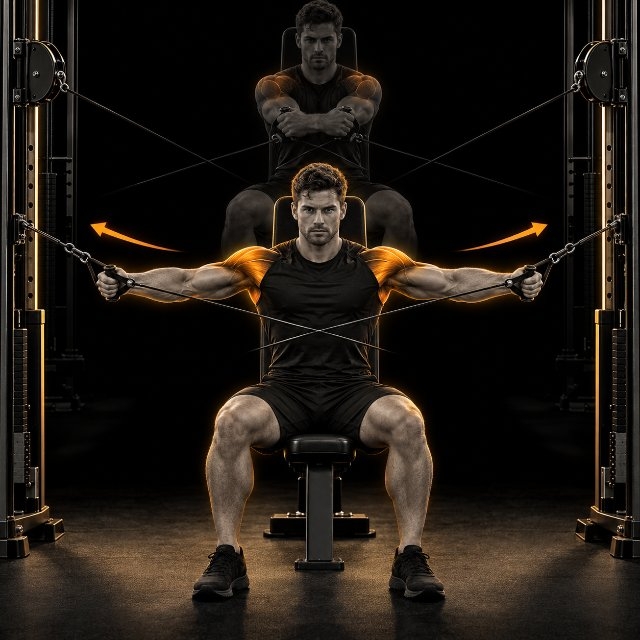
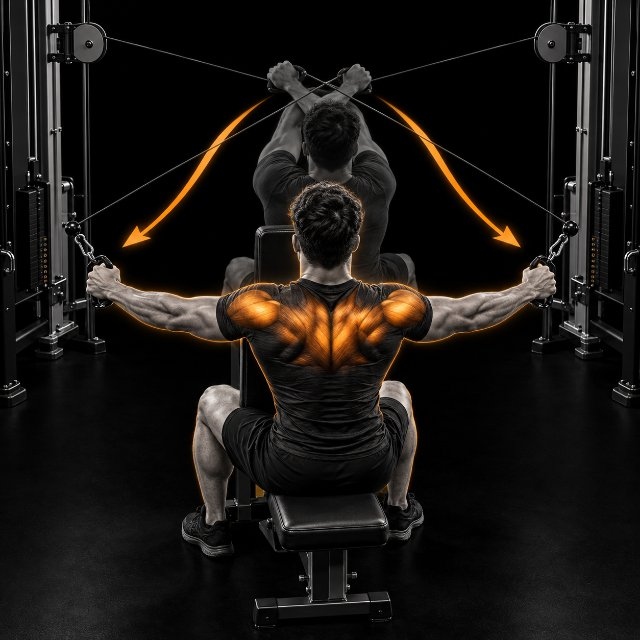
Reverse Butterfly: Brust an Lehne, Blick zum Turm, überkreuzt nach aussen-unten (Bild + Text) (31.10. 12:50)
Claude-Session: https://claude.ai/code/session_01Shd4vmsa3BFJUpncrqw4yj

diff --git a/index.html b/index.html
@@ -761,7 +761,7 @@ function ringBell(at){const c=audioCtx,T=c.currentTime+at,out=c.createDynamicsCo
  [[1,1],[2.76,.55],[5.4,.32],[8.93,.18],[13.3,.08]].forEach(([r,a])=>{const o=c.createOscillator(),g=c.createGain();o.type='sine';o.frequency.value=880*r;g.gain.setValueAtTime(.0001,T);g.gain.exponentialRampToValueAtTime(1.1*a,T+.003);g.gain.exponentialRampToValueAtTime(.0001,T+.75/Math.sqrt(r));o.connect(g);g.connect(out);o.start(T);o.stop(T+.8)})}
 function boxBell(at){[0,.17,.34].forEach(d=>ringBell(at+d))}
 function beep(){if(document.hidden)return;try{if(rawEl&&!customBuf){playRaw();return}if(!audioCtx)return;if(audioCtx.state!=='running'){const t0=Date.now();audioCtx.resume().then(()=>{if(audioCtx.state==='running'&&Date.now()-t0<1500&&!document.hidden)beepNow()}).catch(()=>{});return}beepNow()}catch(e){}}
-const APPV='31.10. 11:55'
+const APPV='31.10. 12:50'
 let _updChk=0;async function checkUpdate(){if(location.hostname!=='donpntlc.github.io'||Date.now()-_updChk<60000)return;_updChk=Date.now();try{const t=await (await fetch(location.pathname+'?u='+Date.now(),{cache:'no-store'})).text();const m=t.match(/const APPV='([^']+)'/);if(!m||m[1]===APPV)return;
  if(!S.active){toast('Neue Version wird geladen …');setTimeout(()=>location.replace(location.pathname+'?v='+Date.now()),900)}else toast('Neue Version da. Nach dem Training App neu öffnen.')}catch(e){}}
 document.addEventListener('visibilitychange',()=>{if(!document.hidden)checkUpdate()});setTimeout(checkUpdate,4000);
@@ -913,7 +913,7 @@ function noteHist(name){const out=[];let lastNote=null;const ss=sessions(name).s
 function slug(n){return String(n).toLowerCase().replace(/ä/g,'ae').replace(/ö/g,'oe').replace(/ü/g,'ue').replace(/ß/g,'ss').replace(/[^a-z0-9]+/g,'-').replace(/^-|-$/g,'')}
 function gender(){try{return localStorage.getItem('hantelbuch.gender')||'m'}catch(e){return 'm'}}
 const IMG_ALIAS={"Push Up": "Liegestütze", "Pull Up": "Klimmzüge", "Pull Up (Warm Up)": "Klimmzüge", "1. Pull up +kg": "Klimmzüge", "2. Pull up +kg": "Klimmzüge", "Chest Dip": "Dips", "1. Chest Dip +kg": "Dips", "2. Chest Dip +kg": "Dips", "Triceps Dip (Assisted)": "Dips", "Bicep Curl (Dumbbell)": "Kurzhantelcurls", "Bicep Curl (Cable)": "Kabelcurls", "Bicep Curl (Barbell)": "Langhantelcurls", "Lat Pulldown (Cable)": "Latzug", "Seated Wide-Grip Row (Cable)": "Kabelrudern sitzend", "Seated Close-Grip Row (Cable)": "Kabelrudern sitzend", "Low Row": "Kabelrudern sitzend", "Seated Row (Machine)": "Kabelrudern sitzend", "Incline Bench Press (Smith Machine)": "Schrägbankdrücken (Langhantel)", "Squat (Barbell)": "Kniebeuge", "Front Raise (Dumbbell)": "Frontheben", "Lateral Raise (Dumbbell)": "Seitheben", "Lateral Raise (Cable)": "Seitheben am Kabel", "Triceps Pushdown (Cable - Straight Bar)": "Trizepsdrücken am Kabel", "Triceps push down mashine": "Trizepsdrücken am Kabel", "Triceps Extension (Cable)": "Überkopf-Trizeps (Kabel)", "Stiff Leg Deadlift (Dumbbell)": "Rumänisches Kreuzheben", "Reverse Fly (Machine)": "Reverse Butterfly", "Reverse Fly (Cable)": "Reverse Butterfly", "Shoulder Press Dumbbell": "Schulterdrücken (Kurzhantel)", "Leg Extension (Machine)": "Beinstrecker", "Hack Squat": "Hackenschmidt", "Seated Leg Curl (Machine)": "Beinbeuger sitzend", "Lying Leg Curl (Machine)": "Beinbeuger liegend", "Leg Press": "Beinpresse", "Hip Adductor (Machine)": "Adduktoren (Maschine)", "Hip Abductor (Machine)": "Abduktoren (Maschine)", "Bench Press (Dumbbell)": "Bankdrücken (Kurzhantel)", "Skullcrusher (Dumbbell)": "French Press", "Deficit Deadlift (Barbell)": "Deficit Deadlift (Trap Bar)", "Chest Fly": "Butterfly (Maschine)", "Lat Pull (Single Arm) - Front": "Latzug"};
-const EXDESC={"Chest Press (Cable)":["sitzt mittig zwischen zwei Kabeltürmen auf einer Bank (ca. 1 m vor den Türmen, Lehne ca. 75°), die Rollen sind etwa auf Kniehöhe eingestellt, je ein Griff in jeder Hand. Mit leichtem Hohlkreuz drückt man die Griffe von der Brust gerade nach vorne und führt die Hände am Ende vorne zusammen","untere und mittlere Brust","vordere Schulter, Trizeps","Erst mit leichtem Gewicht die Position finden: Bank so weit vorne, dass die Kabel schon am Anfang Spannung haben. Gerade nach vorne drücken, nicht nach oben. Vorne kurz die Brust zusammendrücken, dann langsam zurück."],"Stairmaster":["steigt auf dem Stairmaster gleichmässig Stufe für Stufe, Oberkörper aufrecht, Hände nur leicht am Geländer","Gesäss, Quadrizeps","Waden, Herz-Kreislauf"],"Laufband (Steigung gehen)":["geht zügig auf dem Laufband mit hoher Steigung, ohne sich festzuhalten","Gesäss, Waden","Herz-Kreislauf"],"Kabelcurls einarmig":["steht seitlich zum Kabelturm, Rolle ganz unten, greift den Einhand-Griff und curlt ihn mit einem Arm zur Schulter, Ellbogen bleibt am Körper","Bizeps","Unterarme","Leichtes Gewicht, Ellbogen fest an der Seite. Oben kurz anspannen, langsam ablassen bis der Arm fast gestreckt ist. Erst links, dann rechts."],"Deficit Deadlift (Trap Bar)":["steht erhöht auf einer Platte in der sechseckigen Trap Bar, greift die seitlichen Griffe und hebt die Stange aus der tieferen Startposition bis zum aufrechten Stand, Rücken neutral, Druck über die ganzen Füsse","Gesäss, Quadrizeps, Rückenstrecker","Beinbeuger, oberer Rücken, Unterarme","Starte mit leichtem Gewicht und kleiner Erhöhung. Brust hoch, Hüfte und Schultern steigen gleichzeitig. Erst die Tiefe sauber beherrschen, dann Gewicht steigern."],"Dragon Flag":["liegt auf einer Flachbank, hält sich hinter dem Kopf an der Bank fest und hebt den ganzen Körper gestreckt bis auf die Schultern an, dann senkt sie ihn langsam und gerade wieder ab, ohne in der Hüfte abzuknicken","gerader Bauchmuskel, tiefe Bauchmuskulatur","Latissimus, Hüftbeuger, Gesäss","Schritt 1: Nur langsam absenken (Negativ), mit angewinkelten Knien. Schritt 2: Ein Bein gestreckt. Schritt 3: Beide Beine gestreckt. Der Körper bleibt immer eine gerade Linie, das Gewicht liegt auf den Schultern, nicht auf dem Nacken."],"Sprawl": ["lässt sich aus der Kampfstellung fallen, schiesst die Beine gestreckt nach hinten, drückt die Hüfte auf den Boden, stützt mit den Händen vorne ab und springt sofort zurück in die Kampfstellung", "Hüftbeuger, Bauch, Brust", "Schultern, Beine, Ausdauer", "Erst langsam in drei Teilen: Hände runter, Beine zurück, Hüfte runter. Kopf bleibt oben, Blick nach vorne. Dann Tempo steigern. Ziel: 10 saubere Sprawls in unter 20 Sekunden."], "Double-Leg-Shot (Ringen)": ["senkt aus der Kampfstellung die Hüfte, macht einen tiefen Schritt nach vorne (Penetration Step), das hintere Knie tippt kurz den Boden, die Arme greifen um beide Oberschenkel, der Kopf ist seitlich am Körper, dann drückt das hintere Bein nach vorne durch", "Beine, Gesäss", "Rücken, Nacken, Bauch", "Zuerst nur den Schritt an einer Linie entlang üben, ohne Partner. Rücken gerade, Kopf hoch, nie auf den Boden schauen. Wenn das sitzt, mit Partner oder Dummy den Griff und das Durchdrücken dazunehmen."], "Ringerbrücke": ["liegt auf dem Rücken, Füsse nah am Gesäss, drückt die Hüfte hoch und rollt kontrolliert auf den Kopf, sodass Nacken und Rücken einen Bogen bilden", "Nacken, Rückenstrecker", "Gesäss, Beinbeuger", "Nur auf weicher Matte. Am Anfang die Hände neben dem Kopf mit abstützen und langsam vor und zurück rollen, nie ruckartig. Mit Nackenproblemen weglassen."], "Kip-up": ["liegt auf dem Rücken, rollt die Beine über den Kopf zurück, Hände neben den Ohren, schnellt dann Beine und Hüfte explosiv nach vorne-oben, stösst sich mit den Händen ab und landet auf den Füssen", "Hüftbeuger, Bauch, Trizeps", "Schultern, Rücken", "Schritt 1: Zurückrollen und Hände neben die Ohren, ein paar Mal. Schritt 2: Beine kräftig nach vorne-oben kicken, Hüfte hoch, erst von einer erhöhten Matte aus. Schritt 3: Mit den Händen gleichzeitig abstossen und die Füsse unter den Körper ziehen. Auf weicher Matte üben."], "Technical Stand-up": ["steht aus der Bodenlage sicher auf: eine Hand hinten am Boden, der gegenüberliegende Fuss aufgestellt, Hüfte hoch, das andere Bein nach hinten durchziehen, die freie Hand bleibt oben als Deckung", "Bauch, Beine", "Schultern, Gesäss", "Beide Seiten langsam üben, Blick und Deckung immer nach vorne. Dann im Wechsel hinlegen und aufstehen, immer schneller."], "Hip Escape (Shrimp)": ["liegt auf dem Rücken, stellt einen Fuss auf, dreht sich auf die Seite und schiebt die Hüfte kräftig nach hinten weg, die Hände schieben dabei nach vorne", "schräge Bauchmuskeln, Gesäss", "Beine, Schultern", "Über die ganze Mattenlänge, die Seite jedes Mal wechseln. Die Hüfte wirklich wegschieben, nicht nur rollen."], "Sit-out (Ringen)": ["kniet in der Bankstellung, schiebt ein Bein unter dem Körper durch, dreht sich auf die Hüfte und kommt seitlich frei, Brust Richtung Boden", "Bauch, Hüftbeuger", "Schultern, Trizeps", "Erst langsam auf jeder Seite. Dann auf Kommando explosiv rausdrehen und sofort zurück in die Bank."], "Schattenboxen (Sek.)": ["boxt in der Kampfstellung gegen einen gedachten Gegner: Jab, Cross, Haken, dazu Kopfbewegung und Beinarbeit", "Schultern, Bauch", "Waden, Ausdauer", "Runden à 3 Minuten mit 1 Minute Pause. Nach jedem Schlag zurück in die Deckung, Kinn runter. Neue Kombinationen zuerst langsam und sauber."], "Boxsack (Sek.)": ["schlägt Kombinationen am Boxsack, bleibt dabei in Bewegung und hält die Deckung", "Schultern, Brust, Bauch", "Rücken, Beine, Ausdauer", "Runden à 2 bis 3 Minuten. Lieber locker und schnell als hart und langsam. Bandagen und Handschuhe tragen."], "Seilspringen (Sek.)": ["springt locker auf den Fussballen, Ellbogen nah am Körper, das Seil dreht aus den Handgelenken", "Waden", "Schultern, Ausdauer", "Erst einfache Sprünge, 30 Sekunden am Stück. Dann Wechselschritt wie beim Boxen, später Doppelsprünge."], "Burpees": ["geht in die Hocke, springt mit den Beinen nach hinten in den Liegestütz, macht einen Liegestütz, springt die Beine zurück und springt hoch", "Beine, Brust, Bauch", "Schultern, Ausdauer", "Sauber vor schnell. Für Kampfsport den Liegestütz durch einen Sprawl ersetzen, Hüfte runter statt Brust."],"Twisted Curls (Kurzhantel)":["curlt abwechselnd mit einem Arm (der andere bleibt unten), hebt die Kurzhantel bis der Ellbogen etwa im rechten Winkel ist, dreht dort das Handgelenk einmal nach innen und wieder zurück und senkt dann ab, danach der andere Arm","Bizeps, Unterarm","Brachialis"],"Bankdrücken (Langhantel)":["liegt auf der Flachbank, Füsse fest am Boden, Hände etwas breiter als schulterbreit, Unterarme senkrecht, Ellbogen ca. 45° vom Körper. Die Stange kontrolliert auf das Brustbein (Höhe Brustwarzen) senken und gerade nach oben drücken","grosser Brustmuskel","vordere Schulter, Trizeps"],"Schrägbankdrücken (Langhantel)":["liegt auf einer ca. 30° geneigten Schrägbank und drückt die Langhantel von der oberen Brust nach oben","oberer Brustmuskel","vordere Schulter, Trizeps"],"Bankdrücken (Kurzhantel)":["liegt auf der Flachbank und drückt zwei Kurzhanteln von Brusthöhe nach oben, Handflächen zeigen Richtung Füsse","grosser Brustmuskel","vordere Schulter, Trizeps"],"Schrägbankdrücken (Kurzhantel)":["liegt auf einer ca. 30° geneigten Schrägbank und drückt zwei Kurzhanteln nach oben","oberer Brustmuskel","vordere Schulter, Trizeps"],"Butterfly (Maschine)":["sitzt aufrecht an der Butterfly-Maschine und führt die leicht gebeugten Arme in einem Bogen vor der Brust zusammen","grosser Brustmuskel","vordere Schulter"],"Kabelzug-Fliegende":["steht mittig zwischen zwei Kabeltürmen, leicht vorgebeugt, und führt die Griffe in einem weiten Bogen vor der Brust zusammen","grosser Brustmuskel","vordere Schulter"],"Dips":["stützt sich am Barren, Oberkörper leicht nach vorne geneigt, senkt sich bis die Oberarme parallel zum Boden sind und drückt sich hoch","untere Brust, Trizeps","vordere Schulter"],"Liegestütze":["klassische Liegestütze, Körper in einer geraden Linie, Hände etwas breiter als schulterbreit, Brust fast am Boden","grosser Brustmuskel","Trizeps, vordere Schulter, Bauchmuskeln"],"Brustpresse (Maschine)":["sitzt an der Brustpresse und drückt die Griffe von Brusthöhe nach vorne","grosser Brustmuskel","vordere Schulter, Trizeps"],"Kreuzheben":["hebt eine beladene Langhantel vom Boden bis zum aufrechten Stand, Rücken neutral, Stange nah am Körper","Gesäss, Rückenstrecker, Beinbeuger","Quadrizeps, oberer Rücken, Unterarme"],"Klimmzüge":["hängt im Obergriff etwa schulterbreit an der Stange und zieht sich hoch, bis das Kinn über der Stange ist","breiter Rückenmuskel (Latissimus)","Bizeps, hintere Schulter, mittlerer Rücken"],"Latzug":["sitzt am Latzug, Oberschenkel fixiert, und zieht die breite Stange zur oberen Brust","breiter Rückenmuskel (Latissimus)","Bizeps, mittlerer Rücken"],"Langhantelrudern":["steht mit ca. 45° vorgebeugtem Oberkörper, Rücken neutral, und zieht die Langhantel zum Bauchnabel","Latissimus, mittlerer Rücken (Rhomboiden, mittlerer Trapez)","hintere Schulter, Bizeps, Rückenstrecker"],"Kurzhantelrudern":["stützt ein Knie und eine Hand auf der Flachbank und zieht mit dem anderen Arm eine Kurzhantel zur Hüfte","Latissimus, mittlerer Rücken","hintere Schulter, Bizeps"],"Kabelrudern sitzend":["sitzt aufrecht am Kabelzug, Füsse an der Plattform, und zieht den V-Griff zum Bauch, Schulterblätter zusammen","mittlerer Rücken, Latissimus","Bizeps, hintere Schulter"],"T-Bar-Rudern":["steht über der T-Bar, Oberkörper vorgebeugt, Rücken neutral, und zieht die Griffe zur Brust","mittlerer Rücken, Latissimus","hintere Schulter, Bizeps, Rückenstrecker"],"Face Pulls":["steht vor dem Kabelturm, Seil auf Augenhöhe, und zieht es zum Gesicht, Ellbogen hoch und nach aussen","hintere Schulter, oberer Rücken (Rhomboiden, Trapez)","Rotatorenmanschette"],"Hyperextensions":["liegt auf der 45°-Hyperextension-Bank, Hüfte am Polster, und richtet den Oberkörper bis zur geraden Linie auf","Rückenstrecker, Gesäss","Beinbeuger"],"Schulterdrücken (Langhantel)":["steht aufrecht, Bauch fest, und drückt die Langhantel von den Schultern gerade über den Kopf","vordere und seitliche Schulter","Trizeps, oberer Trapez"],"Schulterdrücken (Kurzhantel)":["sitzt aufrecht auf einer Bank mit Rückenlehne und drückt zwei Kurzhanteln von Schulterhöhe über den Kopf","vordere und seitliche Schulter","Trizeps"],"Seitheben":["steht aufrecht und hebt zwei Kurzhanteln mit leicht gebeugten Armen seitlich bis auf Schulterhöhe","seitliche Schulter","oberer Trapez"],"Seitheben am Kabel":["steht seitlich neben dem Kabelturm und hebt den Griff mit dem entfernten Arm seitlich bis auf Schulterhöhe","seitliche Schulter","oberer Trapez"],"Reverse Butterfly":["sitzt mittig zwischen zwei Kabeltürmen auf einer Bank, die Rollen etwa auf Augenhöhe. Die Kabel werden überkreuzt gegriffen: rechte Hand nimmt das linke Kabel, linke Hand das rechte. Aus der Position mit vor der Brust gekreuzten Armen zieht man die Arme mit leicht gebeugten Ellbogen weit seitlich nach hinten-aussen","hintere Schulter","oberer Rücken (Rhomboiden, mittlerer Trapez)","Leichtes Gewicht, Schultern unten lassen, nicht hochziehen. Die Bewegung kommt aus der hinteren Schulter, nicht aus dem Schwung. Hinten kurz halten, langsam zurück, bis sich die Arme vorne wieder kreuzen."],"Frontheben":["steht aufrecht und hebt eine Kurzhantel mit gestrecktem Arm vor dem Körper auf Schulterhöhe","vordere Schulter","oberer Brustmuskel"],"Shrugs":["steht aufrecht mit zwei schweren Kurzhanteln und zieht die Schultern gerade nach oben Richtung Ohren","oberer Trapezmuskel","Unterarme"],"Kniebeuge":["Langhantel auf dem oberen Rücken, beugt die Knie und schiebt die Hüfte nach hinten bis knapp unter parallel, Rücken neutral","Quadrizeps, Gesäss","Adduktoren, Rückenstrecker"],"Frontkniebeuge":["Langhantel vorne auf den Schultern, Ellbogen hoch, Oberkörper aufrecht, beugt die Knie tief","Quadrizeps","Gesäss, oberer Rücken, Bauchmuskeln"],"Beinpresse":["sitzt in der 45°-Beinpresse, Füsse schulterbreit auf der Plattform, und drückt das Gewicht weg","Quadrizeps, Gesäss","Beinbeuger"],"Hackenschmidt":["steht in der Hackenschmidt-Maschine, Rücken am Polster, und beugt und streckt die Knie","Quadrizeps","Gesäss"],"Rumänisches Kreuzheben":["hält die Langhantel, Knie leicht gebeugt, schiebt die Hüfte weit nach hinten und senkt die Stange entlang der Beine bis unter die Knie","Beinbeuger, Gesäss","Rückenstrecker"],"Ausfallschritte":["hält zwei Kurzhanteln und macht einen grossen Schritt nach vorne, hinteres Knie knapp über dem Boden","Quadrizeps, Gesäss","Beinbeuger, Adduktoren"],"Bulgarian Split Squat":["hinterer Fuss auf einer Bank, hält zwei Kurzhanteln und senkt sich auf dem vorderen Bein ab","Quadrizeps und Gesäss des vorderen Beins","Adduktoren"],"Step-ups":["hält zwei Kurzhanteln und steigt mit einem Bein auf eine kniehohe Box","Quadrizeps, Gesäss","Waden"],"Beinstrecker":["sitzt an der Beinstrecker-Maschine und streckt die Beine gegen das Polster","Quadrizeps",""],"Beinbeuger liegend":["liegt bäuchlings an der Beinbeuger-Maschine und zieht die Fersen Richtung Gesäss","Beinbeuger","Waden"],"Beinbeuger sitzend":["sitzt an der Beinbeuger-Maschine und drückt das Polster mit den Unterschenkeln nach unten-hinten","Beinbeuger","Waden"],"Hip Thrust":["oberer Rücken an einer Bank, Langhantel mit Polster auf der Hüfte, drückt die Hüfte nach oben bis der Körper eine gerade Linie bildet","grosser Gesässmuskel","Beinbeuger, Quadrizeps"],"Abduktoren (Maschine)":["sitzt an der Abduktoren-Maschine und drückt die Knie gegen die Polster nach aussen","äusserer Gesässmuskel (Gluteus medius)",""],"Adduktoren (Maschine)":["sitzt an der Adduktoren-Maschine und drückt die Beine gegen die Polster zusammen","Adduktoren (Oberschenkel-Innenseite)",""],"Wadenheben stehend":["steht mit den Fussballen auf einer Erhöhung in der Wadenmaschine und drückt sich auf die Zehenspitzen","Wadenmuskel (Gastrocnemius)",""],"Wadenheben sitzend":["sitzt an der Wadenmaschine, Polster auf den Oberschenkeln, und hebt die Fersen an","Schollenmuskel (Soleus)","Gastrocnemius"],"Langhantelcurls":["steht aufrecht, Ellbogen am Körper, und curlt die Langhantel im Untergriff zur Brust","Bizeps","Unterarme"],"Kurzhantelcurls":["steht aufrecht und curlt zwei Kurzhanteln im Untergriff, Ellbogen bleiben am Körper","Bizeps","Unterarme"],"Hammercurls":["steht aufrecht und curlt zwei Kurzhanteln im neutralen Griff, Daumen zeigen nach oben","Oberarmmuskel (Brachialis), Unterarm (Brachioradialis)","Bizeps"],"Kabelcurls":["steht vor dem Kabelturm und curlt die gerade Stange vom unteren Kabel zur Brust","Bizeps","Unterarme"],"Scottcurls":["sitzt an der Scottbank, Oberarme auf dem Polster, und curlt eine SZ-Stange nach oben","Bizeps","Brachialis"],"Trizepsdrücken am Kabel":["steht vor dem Kabelturm, Ellbogen fest am Körper, und drückt das Seil nach unten bis die Arme gestreckt sind","Trizeps",""],"French Press":["liegt auf der Flachbank und senkt eine SZ-Stange kontrolliert Richtung Stirn, Oberarme bleiben senkrecht","Trizeps",""],"Enges Bankdrücken":["liegt auf der Flachbank und drückt die Langhantel mit schulterbreitem Griff, Ellbogen nah am Körper","Trizeps","Brust, vordere Schulter"],"Überkopf-Trizeps (Kabel)":["steht mit dem Rücken zum Kabelturm, das lange Seil am ganz unten eingestellten Kabel, hält es hinter dem Kopf und streckt die Arme über den Kopf nach vorne-oben","Trizeps (langer Kopf)",""],"Plank (Sek.)":["Unterarmstütz, Körper in einer geraden Linie von Kopf bis Ferse, Bauch fest","gerader Bauchmuskel, tiefe Bauchmuskulatur","Schultern, Gesäss"],"Hängendes Beinheben":["hängt an der Klimmzugstange und hebt die gestreckten Beine bis auf Hüfthöhe oder höher","unterer Bauchmuskel, Hüftbeuger","Unterarme"],"Cable Crunch":["kniet vor dem Kabelturm, Seil neben dem Kopf, und rollt den Oberkörper Richtung Knie ein","gerader Bauchmuskel","schräge Bauchmuskeln"],"Ab Wheel":["kniet und rollt das Bauchrad mit gestreckten Armen nach vorne aus, Rücken neutral","gerader Bauchmuskel, tiefe Bauchmuskulatur","Latissimus, Schultern"],"Russian Twists":["sitzt mit angehobenen Füssen, Oberkörper zurückgelehnt, und dreht eine Gewichtsscheibe von Seite zu Seite","schräge Bauchmuskeln","gerader Bauchmuskel"],"Pallof Press":["steht seitlich zum Kabelturm und drückt den Griff vor der Brust gerade nach vorne, ohne sich mitzudrehen","schräge Bauchmuskeln, tiefe Bauchmuskulatur","Schultern"],"Power Clean":["zieht die Langhantel explosiv vom Boden und fängt sie in der Frontablage auf den Schultern, zeige den Moment der vollen Hüftstreckung","Gesäss, Beinbeuger, Quadrizeps, Trapez","Waden, Schultern, Rückenstrecker"],"Kettlebell Swing":["schwingt die Kettlebell mit explosiver Hüftstreckung bis auf Brusthöhe, Arme locker gestreckt","Gesäss, Beinbeuger","Rückenstrecker, Bauchmuskeln, Schultern"],"Box Jumps":["springt beidbeinig explosiv auf eine hohe Box, zeige den Moment des Absprungs","Quadrizeps, Gesäss, Waden","Beinbeuger"],"Broad Jumps":["beidbeiniger Weitsprung aus dem Stand, zeige die volle Streckung in der Flugphase","Gesäss, Quadrizeps, Waden","Beinbeuger, Schultern"],"Sled Push":["schiebt einen beladenen Schlitten an den zwei Griffstangen (eine Hand pro Stange), Arme gestreckt, Körper stark nach vorne geneigt","Quadrizeps, Gesäss, Waden","Bauchmuskeln, Schultern"],"Medizinball-Wurf":["steht seitlich zur Wand und wirft einen Medizinball mit explosiver Hüft- und Rumpfrotation","schräge Bauchmuskeln, Gesäss","Schultern, Brust"],"Sprints (m)":["sprintet mit hohem Kniehub und kräftigem Armeinsatz, zeige die volle Laufphase","Beinbeuger, Gesäss, Quadrizeps, Waden","Hüftbeuger"],"Farmer's Walk":["geht aufrecht mit je einer schweren Kurzhantel in jeder Hand","Unterarme (Griffkraft), oberer Trapez, Bauchmuskeln","Waden, Gesäss"]};
+const EXDESC={"Chest Press (Cable)":["sitzt mittig zwischen zwei Kabeltürmen auf einer Bank (ca. 1 m vor den Türmen, Lehne ca. 75°), die Rollen sind etwa auf Kniehöhe eingestellt, je ein Griff in jeder Hand. Mit leichtem Hohlkreuz drückt man die Griffe von der Brust gerade nach vorne und führt die Hände am Ende vorne zusammen","untere und mittlere Brust","vordere Schulter, Trizeps","Erst mit leichtem Gewicht die Position finden: Bank so weit vorne, dass die Kabel schon am Anfang Spannung haben. Gerade nach vorne drücken, nicht nach oben. Vorne kurz die Brust zusammendrücken, dann langsam zurück."],"Stairmaster":["steigt auf dem Stairmaster gleichmässig Stufe für Stufe, Oberkörper aufrecht, Hände nur leicht am Geländer","Gesäss, Quadrizeps","Waden, Herz-Kreislauf"],"Laufband (Steigung gehen)":["geht zügig auf dem Laufband mit hoher Steigung, ohne sich festzuhalten","Gesäss, Waden","Herz-Kreislauf"],"Kabelcurls einarmig":["steht seitlich zum Kabelturm, Rolle ganz unten, greift den Einhand-Griff und curlt ihn mit einem Arm zur Schulter, Ellbogen bleibt am Körper","Bizeps","Unterarme","Leichtes Gewicht, Ellbogen fest an der Seite. Oben kurz anspannen, langsam ablassen bis der Arm fast gestreckt ist. Erst links, dann rechts."],"Deficit Deadlift (Trap Bar)":["steht erhöht auf einer Platte in der sechseckigen Trap Bar, greift die seitlichen Griffe und hebt die Stange aus der tieferen Startposition bis zum aufrechten Stand, Rücken neutral, Druck über die ganzen Füsse","Gesäss, Quadrizeps, Rückenstrecker","Beinbeuger, oberer Rücken, Unterarme","Starte mit leichtem Gewicht und kleiner Erhöhung. Brust hoch, Hüfte und Schultern steigen gleichzeitig. Erst die Tiefe sauber beherrschen, dann Gewicht steigern."],"Dragon Flag":["liegt auf einer Flachbank, hält sich hinter dem Kopf an der Bank fest und hebt den ganzen Körper gestreckt bis auf die Schultern an, dann senkt sie ihn langsam und gerade wieder ab, ohne in der Hüfte abzuknicken","gerader Bauchmuskel, tiefe Bauchmuskulatur","Latissimus, Hüftbeuger, Gesäss","Schritt 1: Nur langsam absenken (Negativ), mit angewinkelten Knien. Schritt 2: Ein Bein gestreckt. Schritt 3: Beide Beine gestreckt. Der Körper bleibt immer eine gerade Linie, das Gewicht liegt auf den Schultern, nicht auf dem Nacken."],"Sprawl": ["lässt sich aus der Kampfstellung fallen, schiesst die Beine gestreckt nach hinten, drückt die Hüfte auf den Boden, stützt mit den Händen vorne ab und springt sofort zurück in die Kampfstellung", "Hüftbeuger, Bauch, Brust", "Schultern, Beine, Ausdauer", "Erst langsam in drei Teilen: Hände runter, Beine zurück, Hüfte runter. Kopf bleibt oben, Blick nach vorne. Dann Tempo steigern. Ziel: 10 saubere Sprawls in unter 20 Sekunden."], "Double-Leg-Shot (Ringen)": ["senkt aus der Kampfstellung die Hüfte, macht einen tiefen Schritt nach vorne (Penetration Step), das hintere Knie tippt kurz den Boden, die Arme greifen um beide Oberschenkel, der Kopf ist seitlich am Körper, dann drückt das hintere Bein nach vorne durch", "Beine, Gesäss", "Rücken, Nacken, Bauch", "Zuerst nur den Schritt an einer Linie entlang üben, ohne Partner. Rücken gerade, Kopf hoch, nie auf den Boden schauen. Wenn das sitzt, mit Partner oder Dummy den Griff und das Durchdrücken dazunehmen."], "Ringerbrücke": ["liegt auf dem Rücken, Füsse nah am Gesäss, drückt die Hüfte hoch und rollt kontrolliert auf den Kopf, sodass Nacken und Rücken einen Bogen bilden", "Nacken, Rückenstrecker", "Gesäss, Beinbeuger", "Nur auf weicher Matte. Am Anfang die Hände neben dem Kopf mit abstützen und langsam vor und zurück rollen, nie ruckartig. Mit Nackenproblemen weglassen."], "Kip-up": ["liegt auf dem Rücken, rollt die Beine über den Kopf zurück, Hände neben den Ohren, schnellt dann Beine und Hüfte explosiv nach vorne-oben, stösst sich mit den Händen ab und landet auf den Füssen", "Hüftbeuger, Bauch, Trizeps", "Schultern, Rücken", "Schritt 1: Zurückrollen und Hände neben die Ohren, ein paar Mal. Schritt 2: Beine kräftig nach vorne-oben kicken, Hüfte hoch, erst von einer erhöhten Matte aus. Schritt 3: Mit den Händen gleichzeitig abstossen und die Füsse unter den Körper ziehen. Auf weicher Matte üben."], "Technical Stand-up": ["steht aus der Bodenlage sicher auf: eine Hand hinten am Boden, der gegenüberliegende Fuss aufgestellt, Hüfte hoch, das andere Bein nach hinten durchziehen, die freie Hand bleibt oben als Deckung", "Bauch, Beine", "Schultern, Gesäss", "Beide Seiten langsam üben, Blick und Deckung immer nach vorne. Dann im Wechsel hinlegen und aufstehen, immer schneller."], "Hip Escape (Shrimp)": ["liegt auf dem Rücken, stellt einen Fuss auf, dreht sich auf die Seite und schiebt die Hüfte kräftig nach hinten weg, die Hände schieben dabei nach vorne", "schräge Bauchmuskeln, Gesäss", "Beine, Schultern", "Über die ganze Mattenlänge, die Seite jedes Mal wechseln. Die Hüfte wirklich wegschieben, nicht nur rollen."], "Sit-out (Ringen)": ["kniet in der Bankstellung, schiebt ein Bein unter dem Körper durch, dreht sich auf die Hüfte und kommt seitlich frei, Brust Richtung Boden", "Bauch, Hüftbeuger", "Schultern, Trizeps", "Erst langsam auf jeder Seite. Dann auf Kommando explosiv rausdrehen und sofort zurück in die Bank."], "Schattenboxen (Sek.)": ["boxt in der Kampfstellung gegen einen gedachten Gegner: Jab, Cross, Haken, dazu Kopfbewegung und Beinarbeit", "Schultern, Bauch", "Waden, Ausdauer", "Runden à 3 Minuten mit 1 Minute Pause. Nach jedem Schlag zurück in die Deckung, Kinn runter. Neue Kombinationen zuerst langsam und sauber."], "Boxsack (Sek.)": ["schlägt Kombinationen am Boxsack, bleibt dabei in Bewegung und hält die Deckung", "Schultern, Brust, Bauch", "Rücken, Beine, Ausdauer", "Runden à 2 bis 3 Minuten. Lieber locker und schnell als hart und langsam. Bandagen und Handschuhe tragen."], "Seilspringen (Sek.)": ["springt locker auf den Fussballen, Ellbogen nah am Körper, das Seil dreht aus den Handgelenken", "Waden", "Schultern, Ausdauer", "Erst einfache Sprünge, 30 Sekunden am Stück. Dann Wechselschritt wie beim Boxen, später Doppelsprünge."], "Burpees": ["geht in die Hocke, springt mit den Beinen nach hinten in den Liegestütz, macht einen Liegestütz, springt die Beine zurück und springt hoch", "Beine, Brust, Bauch", "Schultern, Ausdauer", "Sauber vor schnell. Für Kampfsport den Liegestütz durch einen Sprawl ersetzen, Hüfte runter statt Brust."],"Twisted Curls (Kurzhantel)":["curlt abwechselnd mit einem Arm (der andere bleibt unten), hebt die Kurzhantel bis der Ellbogen etwa im rechten Winkel ist, dreht dort das Handgelenk einmal nach innen und wieder zurück und senkt dann ab, danach der andere Arm","Bizeps, Unterarm","Brachialis"],"Bankdrücken (Langhantel)":["liegt auf der Flachbank, Füsse fest am Boden, Hände etwas breiter als schulterbreit, Unterarme senkrecht, Ellbogen ca. 45° vom Körper. Die Stange kontrolliert auf das Brustbein (Höhe Brustwarzen) senken und gerade nach oben drücken","grosser Brustmuskel","vordere Schulter, Trizeps"],"Schrägbankdrücken (Langhantel)":["liegt auf einer ca. 30° geneigten Schrägbank und drückt die Langhantel von der oberen Brust nach oben","oberer Brustmuskel","vordere Schulter, Trizeps"],"Bankdrücken (Kurzhantel)":["liegt auf der Flachbank und drückt zwei Kurzhanteln von Brusthöhe nach oben, Handflächen zeigen Richtung Füsse","grosser Brustmuskel","vordere Schulter, Trizeps"],"Schrägbankdrücken (Kurzhantel)":["liegt auf einer ca. 30° geneigten Schrägbank und drückt zwei Kurzhanteln nach oben","oberer Brustmuskel","vordere Schulter, Trizeps"],"Butterfly (Maschine)":["sitzt aufrecht an der Butterfly-Maschine und führt die leicht gebeugten Arme in einem Bogen vor der Brust zusammen","grosser Brustmuskel","vordere Schulter"],"Kabelzug-Fliegende":["steht mittig zwischen zwei Kabeltürmen, leicht vorgebeugt, und führt die Griffe in einem weiten Bogen vor der Brust zusammen","grosser Brustmuskel","vordere Schulter"],"Dips":["stützt sich am Barren, Oberkörper leicht nach vorne geneigt, senkt sich bis die Oberarme parallel zum Boden sind und drückt sich hoch","untere Brust, Trizeps","vordere Schulter"],"Liegestütze":["klassische Liegestütze, Körper in einer geraden Linie, Hände etwas breiter als schulterbreit, Brust fast am Boden","grosser Brustmuskel","Trizeps, vordere Schulter, Bauchmuskeln"],"Brustpresse (Maschine)":["sitzt an der Brustpresse und drückt die Griffe von Brusthöhe nach vorne","grosser Brustmuskel","vordere Schulter, Trizeps"],"Kreuzheben":["hebt eine beladene Langhantel vom Boden bis zum aufrechten Stand, Rücken neutral, Stange nah am Körper","Gesäss, Rückenstrecker, Beinbeuger","Quadrizeps, oberer Rücken, Unterarme"],"Klimmzüge":["hängt im Obergriff etwa schulterbreit an der Stange und zieht sich hoch, bis das Kinn über der Stange ist","breiter Rückenmuskel (Latissimus)","Bizeps, hintere Schulter, mittlerer Rücken"],"Latzug":["sitzt am Latzug, Oberschenkel fixiert, und zieht die breite Stange zur oberen Brust","breiter Rückenmuskel (Latissimus)","Bizeps, mittlerer Rücken"],"Langhantelrudern":["steht mit ca. 45° vorgebeugtem Oberkörper, Rücken neutral, und zieht die Langhantel zum Bauchnabel","Latissimus, mittlerer Rücken (Rhomboiden, mittlerer Trapez)","hintere Schulter, Bizeps, Rückenstrecker"],"Kurzhantelrudern":["stützt ein Knie und eine Hand auf der Flachbank und zieht mit dem anderen Arm eine Kurzhantel zur Hüfte","Latissimus, mittlerer Rücken","hintere Schulter, Bizeps"],"Kabelrudern sitzend":["sitzt aufrecht am Kabelzug, Füsse an der Plattform, und zieht den V-Griff zum Bauch, Schulterblätter zusammen","mittlerer Rücken, Latissimus","Bizeps, hintere Schulter"],"T-Bar-Rudern":["steht über der T-Bar, Oberkörper vorgebeugt, Rücken neutral, und zieht die Griffe zur Brust","mittlerer Rücken, Latissimus","hintere Schulter, Bizeps, Rückenstrecker"],"Face Pulls":["steht vor dem Kabelturm, Seil auf Augenhöhe, und zieht es zum Gesicht, Ellbogen hoch und nach aussen","hintere Schulter, oberer Rücken (Rhomboiden, Trapez)","Rotatorenmanschette"],"Hyperextensions":["liegt auf der 45°-Hyperextension-Bank, Hüfte am Polster, und richtet den Oberkörper bis zur geraden Linie auf","Rückenstrecker, Gesäss","Beinbeuger"],"Schulterdrücken (Langhantel)":["steht aufrecht, Bauch fest, und drückt die Langhantel von den Schultern gerade über den Kopf","vordere und seitliche Schulter","Trizeps, oberer Trapez"],"Schulterdrücken (Kurzhantel)":["sitzt aufrecht auf einer Bank mit Rückenlehne und drückt zwei Kurzhanteln von Schulterhöhe über den Kopf","vordere und seitliche Schulter","Trizeps"],"Seitheben":["steht aufrecht und hebt zwei Kurzhanteln mit leicht gebeugten Armen seitlich bis auf Schulterhöhe","seitliche Schulter","oberer Trapez"],"Seitheben am Kabel":["steht seitlich neben dem Kabelturm und hebt den Griff mit dem entfernten Arm seitlich bis auf Schulterhöhe","seitliche Schulter","oberer Trapez"],"Reverse Butterfly":["sitzt verkehrt herum auf einer kleinen Bank (Lehne senkrecht auf 90°, reicht bis unter die Brust), Brust an der Lehne, Blick zum Kabelturm, etwa eine Fusslänge hinter den Türmen. Die Rollen sind etwa auf Augenhöhe. Die Kabel werden überkreuzt gegriffen: rechte Hand nimmt das linke Kabel, linke Hand das rechte, sodass schon am Anfang volle Spannung auf der hinteren Schulter ist. Dann zieht man die Arme von oben weit nach aussen und schräg nach unten","hintere Schulter","oberer Rücken (Rhomboiden, mittlerer Trapez)","Leichtes Gewicht, Schultern unten lassen, nicht hochziehen. Die Bewegung kommt aus der hinteren Schulter, nicht aus dem Schwung. Aussen kurz halten, langsam zurück, bis sich die Arme vorne wieder kreuzen."],"Frontheben":["steht aufrecht und hebt eine Kurzhantel mit gestrecktem Arm vor dem Körper auf Schulterhöhe","vordere Schulter","oberer Brustmuskel"],"Shrugs":["steht aufrecht mit zwei schweren Kurzhanteln und zieht die Schultern gerade nach oben Richtung Ohren","oberer Trapezmuskel","Unterarme"],"Kniebeuge":["Langhantel auf dem oberen Rücken, beugt die Knie und schiebt die Hüfte nach hinten bis knapp unter parallel, Rücken neutral","Quadrizeps, Gesäss","Adduktoren, Rückenstrecker"],"Frontkniebeuge":["Langhantel vorne auf den Schultern, Ellbogen hoch, Oberkörper aufrecht, beugt die Knie tief","Quadrizeps","Gesäss, oberer Rücken, Bauchmuskeln"],"Beinpresse":["sitzt in der 45°-Beinpresse, Füsse schulterbreit auf der Plattform, und drückt das Gewicht weg","Quadrizeps, Gesäss","Beinbeuger"],"Hackenschmidt":["steht in der Hackenschmidt-Maschine, Rücken am Polster, und beugt und streckt die Knie","Quadrizeps","Gesäss"],"Rumänisches Kreuzheben":["hält die Langhantel, Knie leicht gebeugt, schiebt die Hüfte weit nach hinten und senkt die Stange entlang der Beine bis unter die Knie","Beinbeuger, Gesäss","Rückenstrecker"],"Ausfallschritte":["hält zwei Kurzhanteln und macht einen grossen Schritt nach vorne, hinteres Knie knapp über dem Boden","Quadrizeps, Gesäss","Beinbeuger, Adduktoren"],"Bulgarian Split Squat":["hinterer Fuss auf einer Bank, hält zwei Kurzhanteln und senkt sich auf dem vorderen Bein ab","Quadrizeps und Gesäss des vorderen Beins","Adduktoren"],"Step-ups":["hält zwei Kurzhanteln und steigt mit einem Bein auf eine kniehohe Box","Quadrizeps, Gesäss","Waden"],"Beinstrecker":["sitzt an der Beinstrecker-Maschine und streckt die Beine gegen das Polster","Quadrizeps",""],"Beinbeuger liegend":["liegt bäuchlings an der Beinbeuger-Maschine und zieht die Fersen Richtung Gesäss","Beinbeuger","Waden"],"Beinbeuger sitzend":["sitzt an der Beinbeuger-Maschine und drückt das Polster mit den Unterschenkeln nach unten-hinten","Beinbeuger","Waden"],"Hip Thrust":["oberer Rücken an einer Bank, Langhantel mit Polster auf der Hüfte, drückt die Hüfte nach oben bis der Körper eine gerade Linie bildet","grosser Gesässmuskel","Beinbeuger, Quadrizeps"],"Abduktoren (Maschine)":["sitzt an der Abduktoren-Maschine und drückt die Knie gegen die Polster nach aussen","äusserer Gesässmuskel (Gluteus medius)",""],"Adduktoren (Maschine)":["sitzt an der Adduktoren-Maschine und drückt die Beine gegen die Polster zusammen","Adduktoren (Oberschenkel-Innenseite)",""],"Wadenheben stehend":["steht mit den Fussballen auf einer Erhöhung in der Wadenmaschine und drückt sich auf die Zehenspitzen","Wadenmuskel (Gastrocnemius)",""],"Wadenheben sitzend":["sitzt an der Wadenmaschine, Polster auf den Oberschenkeln, und hebt die Fersen an","Schollenmuskel (Soleus)","Gastrocnemius"],"Langhantelcurls":["steht aufrecht, Ellbogen am Körper, und curlt die Langhantel im Untergriff zur Brust","Bizeps","Unterarme"],"Kurzhantelcurls":["steht aufrecht und curlt zwei Kurzhanteln im Untergriff, Ellbogen bleiben am Körper","Bizeps","Unterarme"],"Hammercurls":["steht aufrecht und curlt zwei Kurzhanteln im neutralen Griff, Daumen zeigen nach oben","Oberarmmuskel (Brachialis), Unterarm (Brachioradialis)","Bizeps"],"Kabelcurls":["steht vor dem Kabelturm und curlt die gerade Stange vom unteren Kabel zur Brust","Bizeps","Unterarme"],"Scottcurls":["sitzt an der Scottbank, Oberarme auf dem Polster, und curlt eine SZ-Stange nach oben","Bizeps","Brachialis"],"Trizepsdrücken am Kabel":["steht vor dem Kabelturm, Ellbogen fest am Körper, und drückt das Seil nach unten bis die Arme gestreckt sind","Trizeps",""],"French Press":["liegt auf der Flachbank und senkt eine SZ-Stange kontrolliert Richtung Stirn, Oberarme bleiben senkrecht","Trizeps",""],"Enges Bankdrücken":["liegt auf der Flachbank und drückt die Langhantel mit schulterbreitem Griff, Ellbogen nah am Körper","Trizeps","Brust, vordere Schulter"],"Überkopf-Trizeps (Kabel)":["steht mit dem Rücken zum Kabelturm, das lange Seil am ganz unten eingestellten Kabel, hält es hinter dem Kopf und streckt die Arme über den Kopf nach vorne-oben","Trizeps (langer Kopf)",""],"Plank (Sek.)":["Unterarmstütz, Körper in einer geraden Linie von Kopf bis Ferse, Bauch fest","gerader Bauchmuskel, tiefe Bauchmuskulatur","Schultern, Gesäss"],"Hängendes Beinheben":["hängt an der Klimmzugstange und hebt die gestreckten Beine bis auf Hüfthöhe oder höher","unterer Bauchmuskel, Hüftbeuger","Unterarme"],"Cable Crunch":["kniet vor dem Kabelturm, Seil neben dem Kopf, und rollt den Oberkörper Richtung Knie ein","gerader Bauchmuskel","schräge Bauchmuskeln"],"Ab Wheel":["kniet und rollt das Bauchrad mit gestreckten Armen nach vorne aus, Rücken neutral","gerader Bauchmuskel, tiefe Bauchmuskulatur","Latissimus, Schultern"],"Russian Twists":["sitzt mit angehobenen Füssen, Oberkörper zurückgelehnt, und dreht eine Gewichtsscheibe von Seite zu Seite","schräge Bauchmuskeln","gerader Bauchmuskel"],"Pallof Press":["steht seitlich zum Kabelturm und drückt den Griff vor der Brust gerade nach vorne, ohne sich mitzudrehen","schräge Bauchmuskeln, tiefe Bauchmuskulatur","Schultern"],"Power Clean":["zieht die Langhantel explosiv vom Boden und fängt sie in der Frontablage auf den Schultern, zeige den Moment der vollen Hüftstreckung","Gesäss, Beinbeuger, Quadrizeps, Trapez","Waden, Schultern, Rückenstrecker"],"Kettlebell Swing":["schwingt die Kettlebell mit explosiver Hüftstreckung bis auf Brusthöhe, Arme locker gestreckt","Gesäss, Beinbeuger","Rückenstrecker, Bauchmuskeln, Schultern"],"Box Jumps":["springt beidbeinig explosiv auf eine hohe Box, zeige den Moment des Absprungs","Quadrizeps, Gesäss, Waden","Beinbeuger"],"Broad Jumps":["beidbeiniger Weitsprung aus dem Stand, zeige die volle Streckung in der Flugphase","Gesäss, Quadrizeps, Waden","Beinbeuger, Schultern"],"Sled Push":["schiebt einen beladenen Schlitten an den zwei Griffstangen (eine Hand pro Stange), Arme gestreckt, Körper stark nach vorne geneigt","Quadrizeps, Gesäss, Waden","Bauchmuskeln, Schultern"],"Medizinball-Wurf":["steht seitlich zur Wand und wirft einen Medizinball mit explosiver Hüft- und Rumpfrotation","schräge Bauchmuskeln, Gesäss","Schultern, Brust"],"Sprints (m)":["sprintet mit hohem Kniehub und kräftigem Armeinsatz, zeige die volle Laufphase","Beinbeuger, Gesäss, Quadrizeps, Waden","Hüftbeuger"],"Farmer's Walk":["geht aufrecht mit je einer schweren Kurzhantel in jeder Hand","Unterarme (Griffkraft), oberer Trapez, Bauchmuskeln","Waden, Gesäss"]};
 function baseName(n){return String(n||'').split(' · ')[0].trim()}
 function variantOf(n){const i=String(n||'').indexOf(' · ');return i<0?'':String(n).slice(i+3).trim()}
 function exDesc(n){const b=baseName(n);return EXDESC[b]||EXDESC[IMG_ALIAS[b]]||null}
